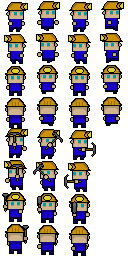
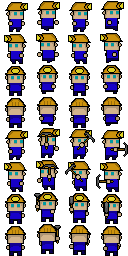
implement player attack animation

diff --git a/sprites.py b/sprites.py
@@ -1,7 +1,7 @@
 import os
 import pygame
 from settings import *
-from helper import Animate
+from helper import Animate, Animate_Attack
 from menu import GameOverScene
 
 
@@ -64,19 +64,28 @@ class Player(GameObject):
 
         # State
         self.sliding = False #tells if the player is sliding on the ice
+        self.attacking = False
 
         # Animation
         self.update_delay = PLAYER_IDLE_DELAY
+        self.update_attack_delay = PLAYER_ATTACK_DELAY
         self.last_update = pygame.time.get_ticks()
         self.walking_up = []
         self.walking_down = []
         self.walking_left = []
         self.walking_right = []
+        self.attacking_up = []
+        self.attacking_down = []
+        self.attacking_left = []
+        self.attacking_right = []
         self.animation_index = 0
+        self.animation_attack_index = 0
 
         # Sprite sheet definition
         sprite_sheet = SpriteSheet(PLAYER_SPRITE_SHEET)
         self.image = sprite_sheet.get_image(0, 0, 32, 32)
+
+        # Add sprites to walking arrays
         for x in range(0, 97, 32):
             self.walking_right.append(sprite_sheet.get_image(x, 0, 32, 32))
         for x in range(0, 97, 32):
@@ -85,6 +94,16 @@ class Player(GameObject):
             self.walking_down.append(sprite_sheet.get_image(x, 64, 32, 32))
         for x in range(0, 97, 32):
             self.walking_up.append(sprite_sheet.get_image(x, 96, 32, 32))
+
+        # Add sprites to attacking arrays
+        for x in range(0, 97, 32):
+            self.attacking_right.append(sprite_sheet.get_image(x, 128, 32, 32))
+        for x in range(0, 97, 32):
+            self.attacking_left.append(sprite_sheet.get_image(x, 160, 32, 32))
+        for x in range(0, 97, 32):
+            self.attacking_down.append(sprite_sheet.get_image(x, 192, 32, 32))
+        for x in range(0, 97, 32):
+            self.attacking_up.append(sprite_sheet.get_image(x, 224, 32, 32))
 
     def move(self, dx=0, dy=0):
         if not self.collision_object(dx, dy):
@@ -130,6 +149,7 @@ class Player(GameObject):
 
     """
     def interact(self):
+        self.attacking = True
         for object in self.scene.all_sprites:
             if object.x == self.x + self.orientation[0] and \
                     object.y == self.y + self.orientation[1]:
@@ -137,20 +157,33 @@ class Player(GameObject):
                     if object.hit_detected is False: # check if enemy is not invulnerable
                         object.health -= 1
                         object.hit = True
+                        self.attacking = True
 
     def update(self):
         now = pygame.time.get_ticks()
 
-        if now - self.last_update >= self.update_delay:
-            self.last_update = now
-            if self.orientation == UP:
-                Animate(self, self.walking_up)
-            elif self.orientation == LEFT:
-                Animate(self, self.walking_left)
-            elif self.orientation == DOWN:
-                Animate(self, self.walking_down)
-            else:
-                Animate(self, self.walking_right)
+        if self.attacking:
+            if now - self.last_update >= self.update_attack_delay:
+                self.last_update = now
+                if self.orientation == UP:
+                    Animate_Attack(self, self.attacking_up)
+                elif self.orientation == LEFT:
+                    Animate_Attack(self, self.attacking_left)
+                elif self.orientation == DOWN:
+                    Animate_Attack(self, self.attacking_down)
+                else:
+                    Animate_Attack(self, self.attacking_right)
+        else:
+            if now - self.last_update >= self.update_delay:
+                self.last_update = now
+                if self.orientation == UP:
+                    Animate(self, self.walking_up)
+                elif self.orientation == LEFT:
+                    Animate(self, self.walking_left)
+                elif self.orientation == DOWN:
+                    Animate(self, self.walking_down)
+                else:
+                    Animate(self, self.walking_right)
 
 
 

diff --git a/helper.py b/helper.py
@@ -95,14 +95,24 @@ class Instructions():
             if self.opacity > 250: #when the opacity has reached near maximum, start to decrement it
                 self.increment = -5
 
+
 '''
 Animate sprite
 Args:
     sprite: sprite class. Modify animation_index and iterate through frames.
     frames: list of sprites.
 '''
+
 def Animate(sprite, frames):
     sprite.animation_index += 1
     if sprite.animation_index >= len(frames):
         sprite.animation_index = 0
     sprite.image = frames[sprite.animation_index]
+
+
+def Animate_Attack(sprite, frames):
+    sprite.animation_attack_index += 1
+    if sprite.animation_attack_index >= len(frames):
+        sprite.animation_attack_index = 0
+        sprite.attacking = False
+    sprite.image = frames[sprite.animation_attack_index]

diff --git a/settings.py b/settings.py
@@ -34,6 +34,7 @@ GRIDHEIGHT = HEIGHT / TILESIZE
 # object variables
 ENEMY_SPEED = 500 # delay in ms between enemy movement
 PLAYER_IDLE_DELAY = 200
+PLAYER_ATTACK_DELAY = 50
 KEY_IDLE_DELAY = 300
 HIT_DELAY = 60
 
